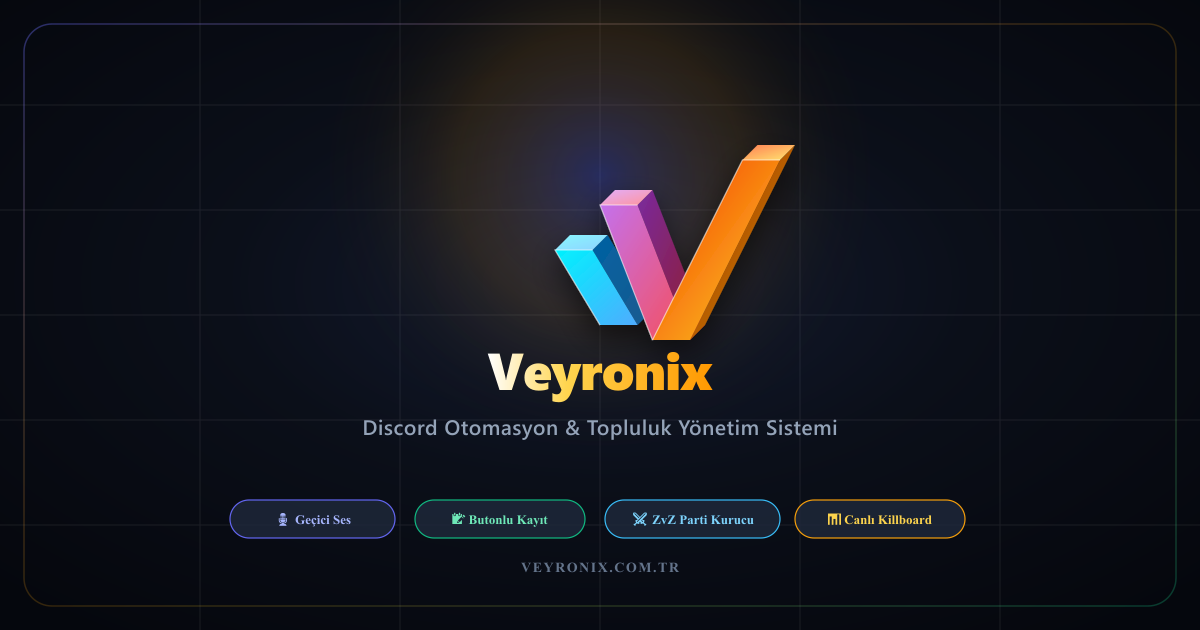
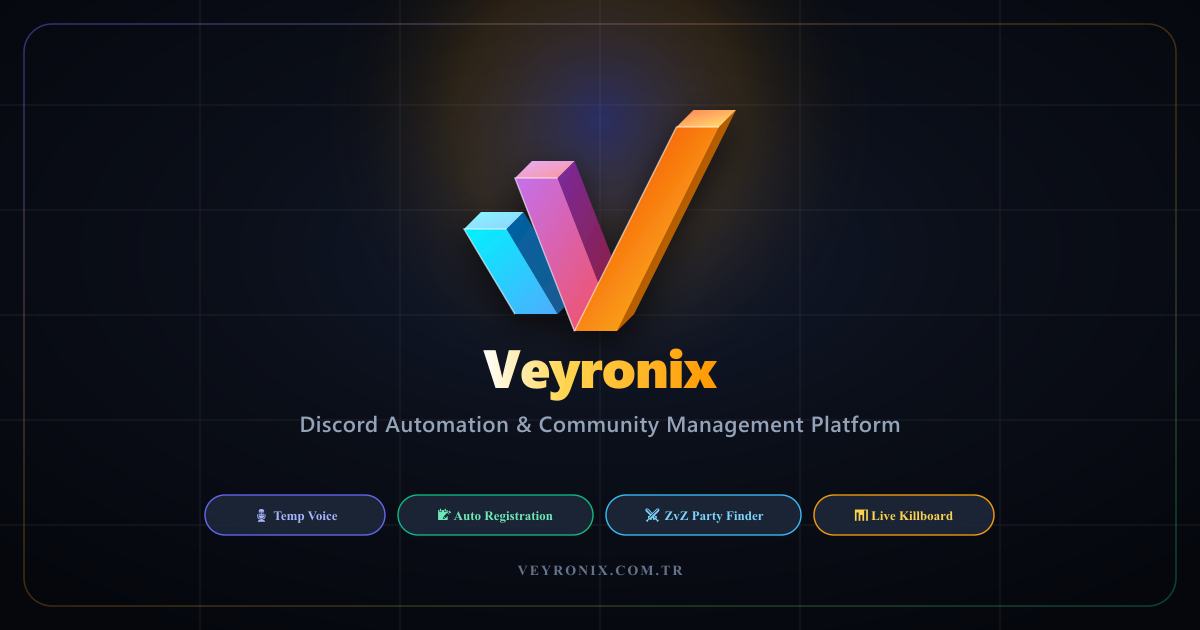
feat: add OpenGraph social media preview assets and configure site metadata in layout

diff --git a/apps/web/src/app/layout.js b/apps/web/src/app/layout.js
@@ -89,8 +89,8 @@ export const metadata = {
     title: "Veyronix",
   },
   openGraph: {
-    title: "Veyronix – Discord Kayıt, Geçici Ses Kanalı & Albion Online Botu",
-    description: "Discord sunucunuzu tek bir güçlü botla yönetin: Geçici ses kanalları (VoiceForge), butonlu kayıt & otomatik rol sistemi, ZvZ parti kurucu, Killboard takibi ve web paneli!",
+    title: "Veyronix – Discord Automation, VoiceForge & Community Platform",
+    description: "Empower your Discord server with all-in-one automation: 15-button temporary voice channels (VoiceForge), modal registration & auto-roles, Albion Online ZvZ party finder, live Killboard & web dashboard!",
     url: LINKS.WEBSITE,
     siteName: "Veyronix",
     images: [
@@ -98,17 +98,17 @@ export const metadata = {
         url: LINKS.OG_IMAGE_URL,
         width: 1200,
         height: 630,
-        alt: "Veyronix - Discord Kayıt, Geçici Ses Kanalı ve Albion Online Botu",
+        alt: "Veyronix - Discord Automation & Community Management Platform",
       },
     ],
-    locale: "tr_TR",
-    alternateLocale: ["en_US"],
+    locale: "en_US",
+    alternateLocale: ["tr_TR"],
     type: "website",
   },
   twitter: {
     card: "summary_large_image",
-    title: "Veyronix – Discord Kayıt, Geçici Ses Kanalı & Albion Online Botu",
-    description: "Discord sunucunuzu tek bir güçlü botla yönetin: Geçici ses kanalları, butonlu kayıt & otomatik rol sistemi, ZvZ parti kurucu, canlı Killboard ve web paneli!",
+    title: "Veyronix – Discord Automation, VoiceForge & Community Platform",
+    description: "Empower your Discord server with all-in-one automation: 15-button temporary voice channels (VoiceForge), modal registration & auto-roles, ZvZ party finder, live Killboard & web dashboard!",
     images: [LINKS.OG_IMAGE_URL],
   },
   other: {
